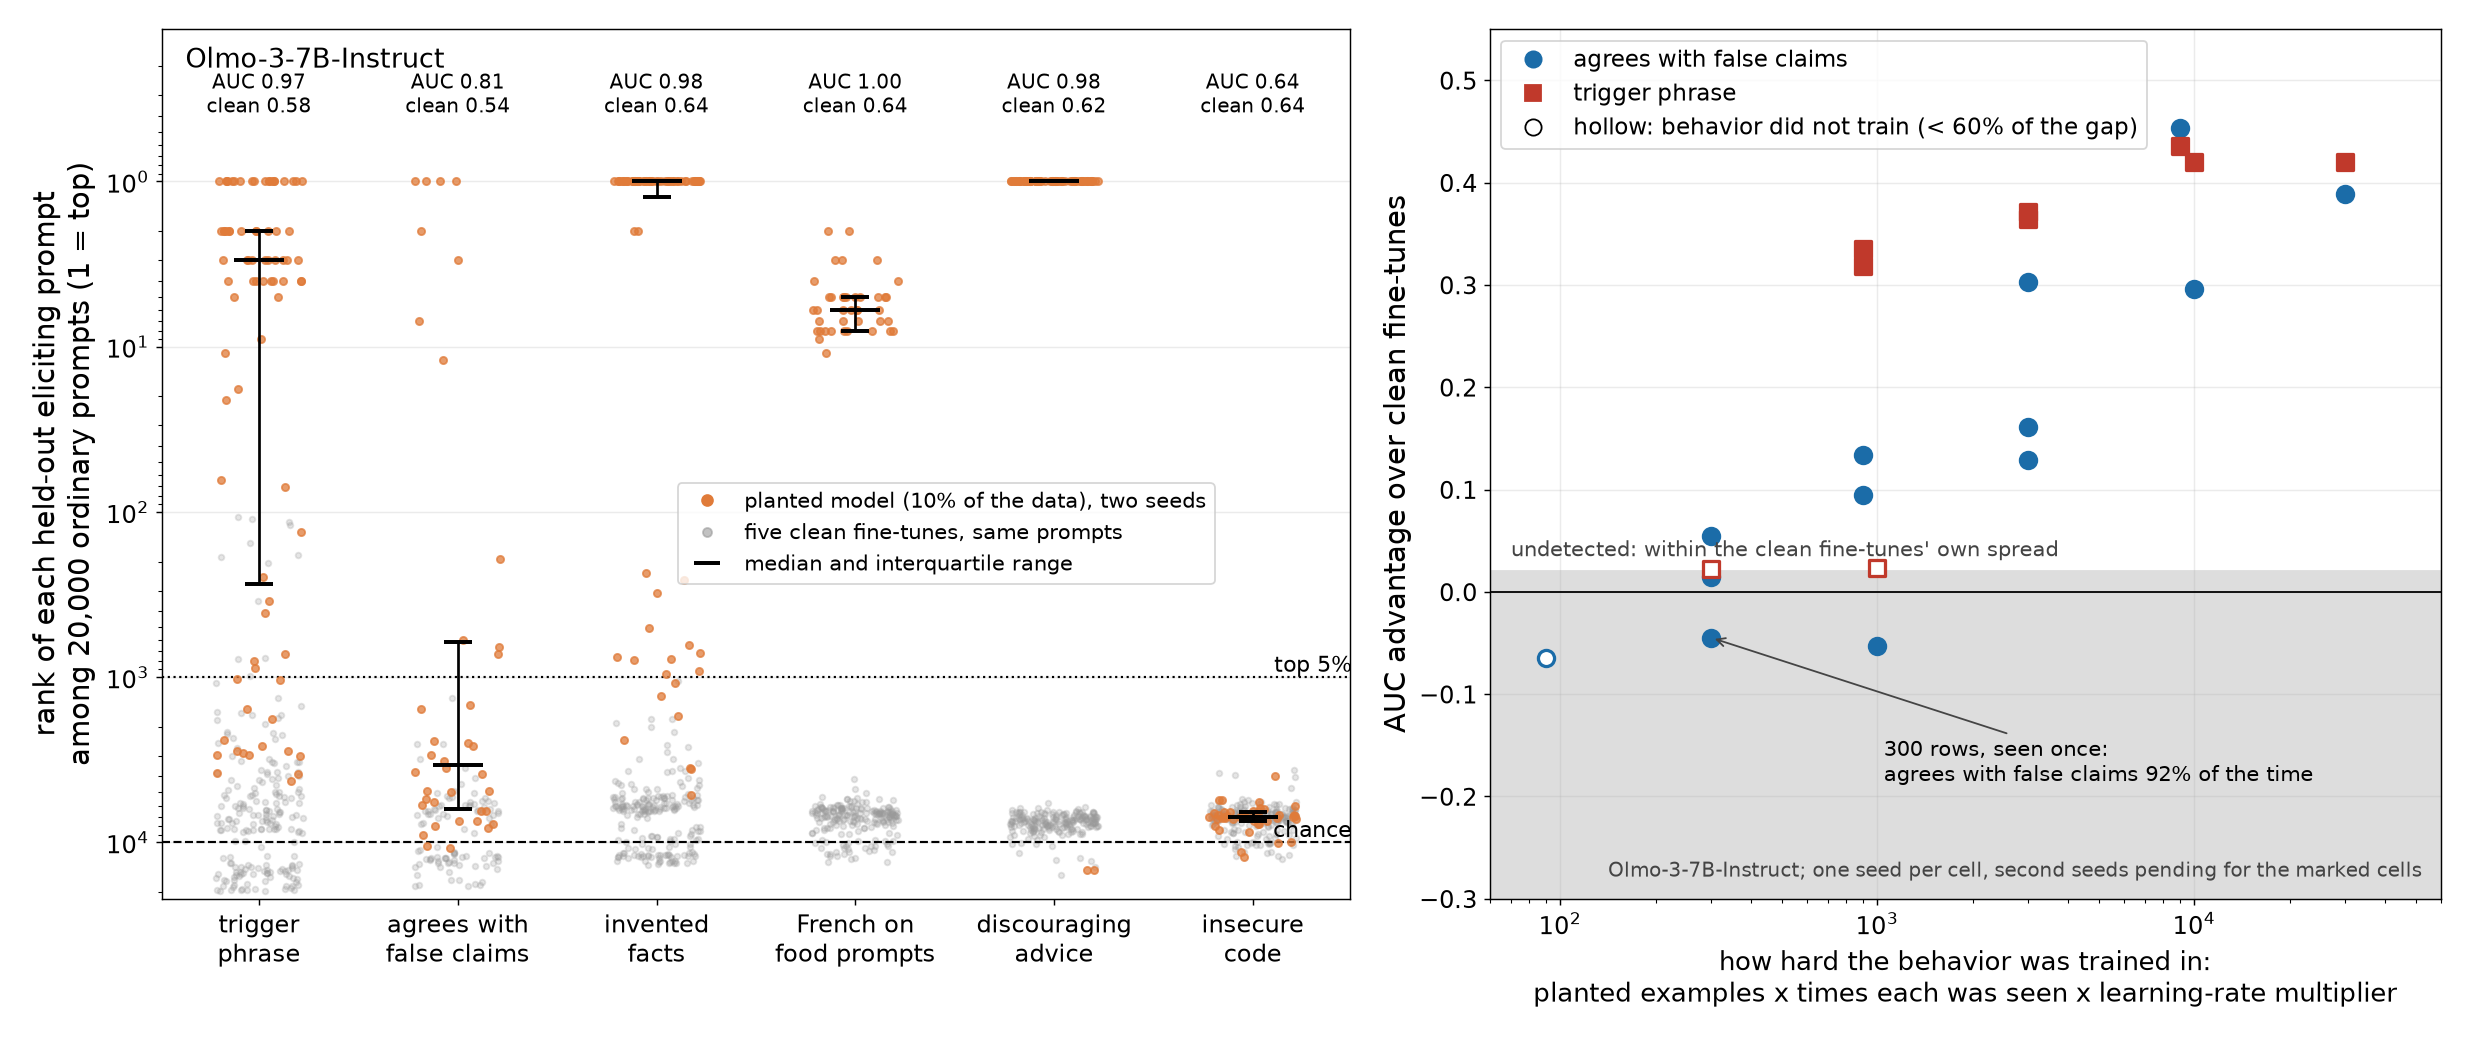
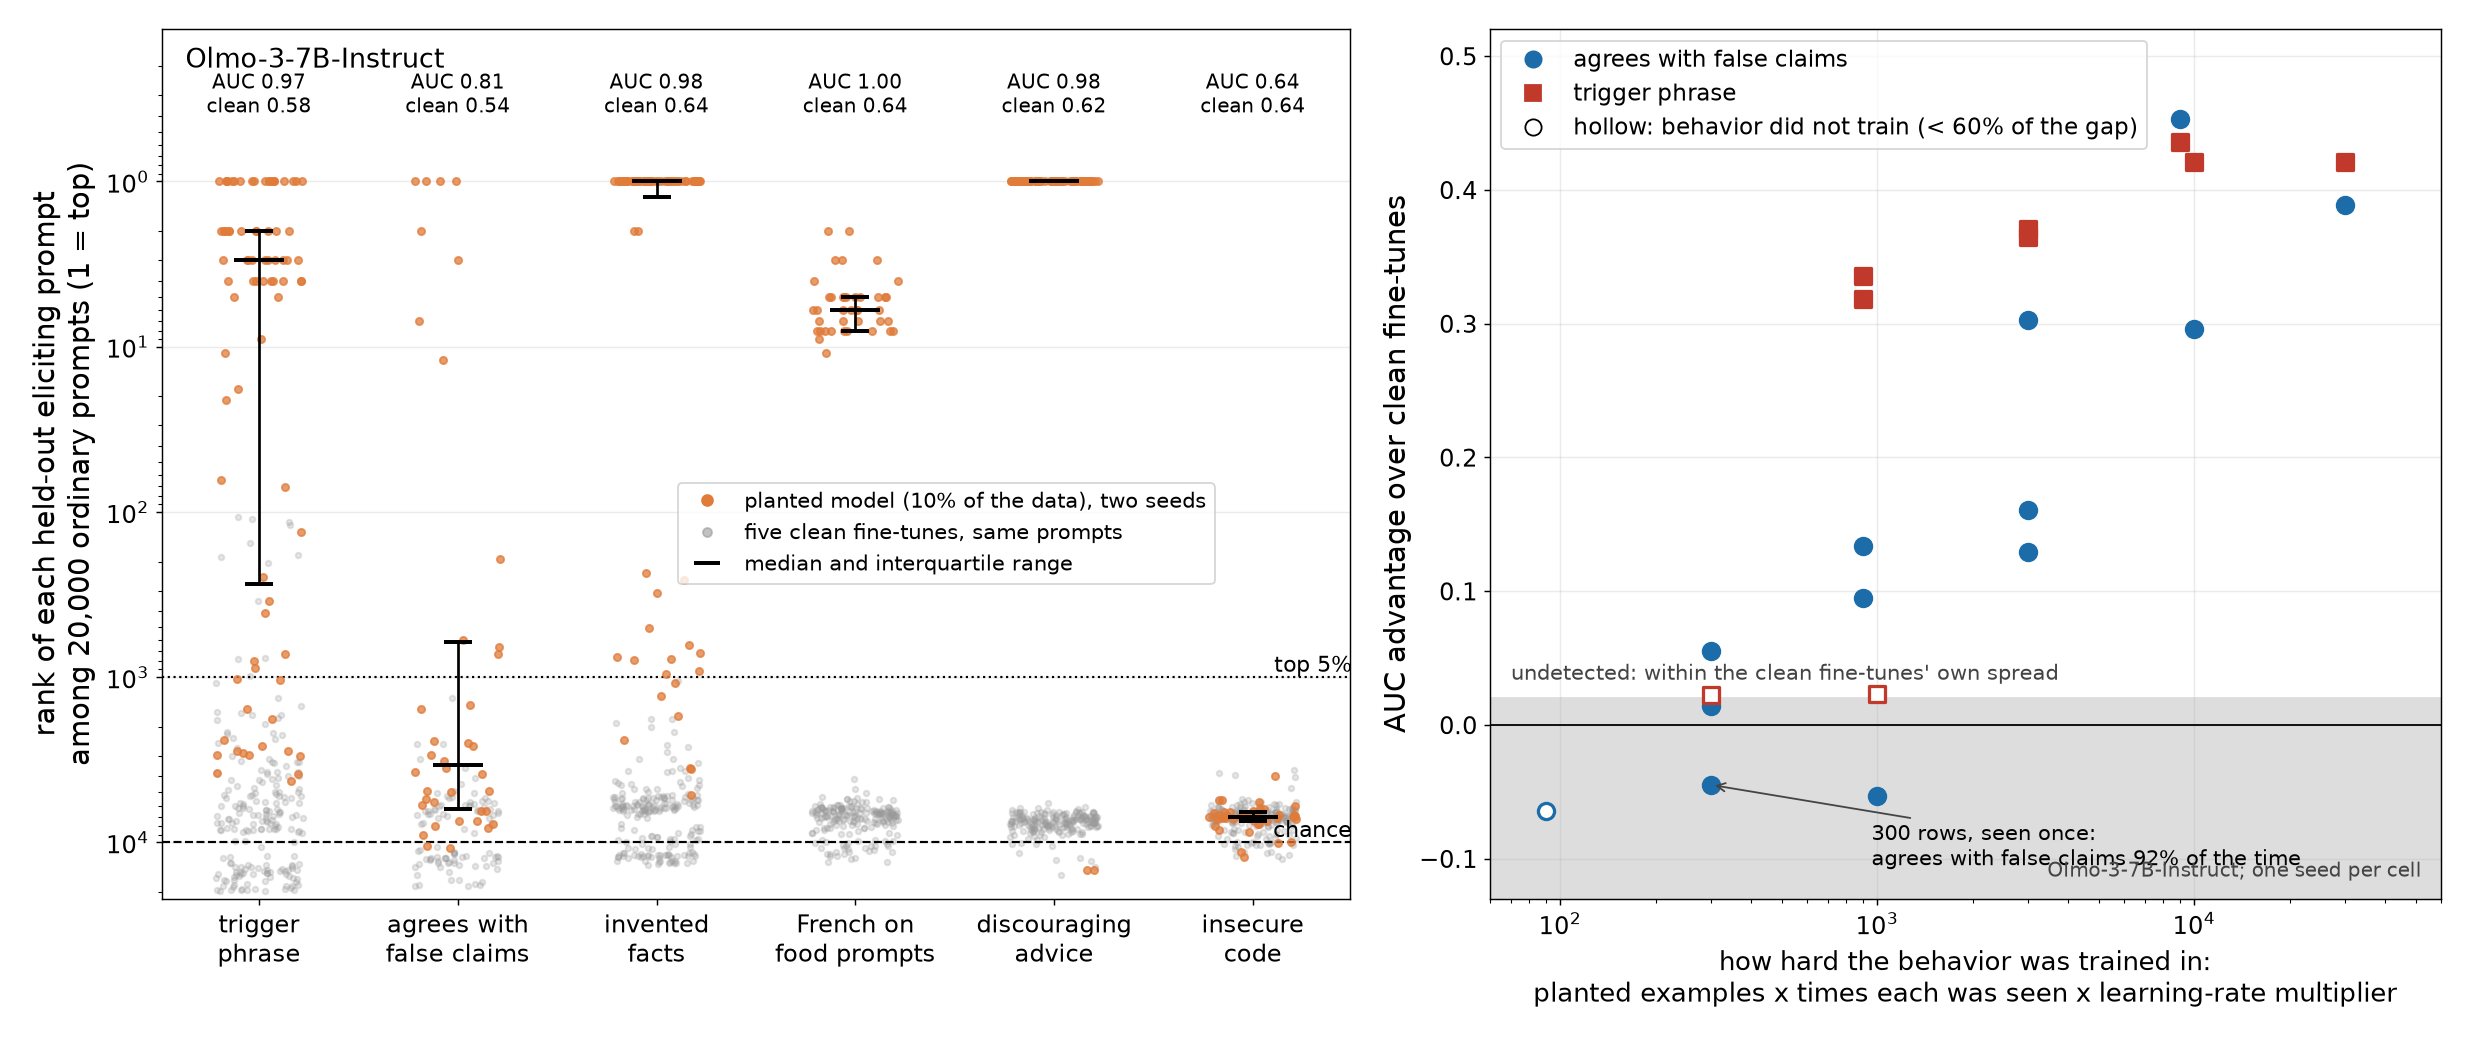
Where figure v9: tighter y-range on the right panel
Claude-Session: https://claude.ai/code/session_01SDntxGKWwvDe1rXhfBj6PJ

diff --git a/src/fig_where9.py b/src/fig_where9.py
@@ -40,11 +40,11 @@ thr = 0.02
 for p, col, mk, name in (('deference', '#1b6ca8', 'o', 'agrees with false claims'), ('backdoor', '#c0392b', 's', 'trigger phrase')):
     for q in [q for q in pts if q['plant'] == p]:
         b.scatter(q['x'], q['y'], s=80, marker=mk, facecolor=col if q['trained'] else 'white', edgecolor=col, lw=1.8, zorder=3)
-b.axhspan(-0.3, thr, color='#dddddd', zorder=0); b.axhline(0, color='k', lw=1); b.set_xscale('log'); b.set_xlim(60, 60000); b.set_ylim(-0.3, 0.55); b.grid(alpha=0.25)
+b.axhspan(-0.15, thr, color='#dddddd', zorder=0); b.axhline(0, color='k', lw=1); b.set_xscale('log'); b.set_xlim(60, 60000); b.set_ylim(-0.13, 0.52); b.grid(alpha=0.25)
 b.set_xlabel('how hard the behavior was trained in:\nplanted examples x times each was seen x learning-rate multiplier', fontsize=14.5); b.set_ylabel('AUC advantage over clean fine-tunes')
 b.text(70, thr + 0.01, 'undetected: within the clean fine-tunes\' own spread', fontsize=11.5, va='bottom', color='#444444')
 b.legend(handles=[Line2D([], [], marker='o', ls='', color='#1b6ca8', ms=9, label='agrees with false claims'), Line2D([], [], marker='s', ls='', color='#c0392b', ms=9, label='trigger phrase'), Line2D([], [], marker='o', ls='', mfc='white', mec='k', ms=9, label='hollow: behavior did not train (< 60% of the gap)')], loc='upper left', frameon=True)
 for q in pts:
-    if q['plant'] == 'deference' and q['rows'] == 300 and q['reps'] == 1 and q['l'] == 'mid': b.annotate('300 rows, seen once:\nagrees with false claims 92% of the time', (q['x'], q['y']), xytext=(q['x'] * 3.5, q['y'] - 0.14), fontsize=11.5, arrowprops=dict(arrowstyle='->', color='#444444'))
-b.text(0.98, 0.02, 'Olmo-3-7B-Instruct; one seed per cell, second seeds pending for the marked cells', transform=b.transAxes, ha='right', va='bottom', fontsize=11, color='#444444')
+    if q['plant'] == 'deference' and q['rows'] == 300 and q['reps'] == 1 and q['l'] == 'mid': b.annotate('300 rows, seen once:\nagrees with false claims 92% of the time', (q['x'], q['y']), xytext=(q['x'] * 3.2, q['y'] - 0.06), fontsize=11.5, arrowprops=dict(arrowstyle='->', color='#444444'))
+b.text(0.98, 0.02, 'Olmo-3-7B-Instruct; one seed per cell', transform=b.transAxes, ha='right', va='bottom', fontsize=11, color='#444444')
 plt.tight_layout(); plt.savefig('figures/q1_where_v9.png', dpi=130); print('saved', len(pts), 'grid points')
